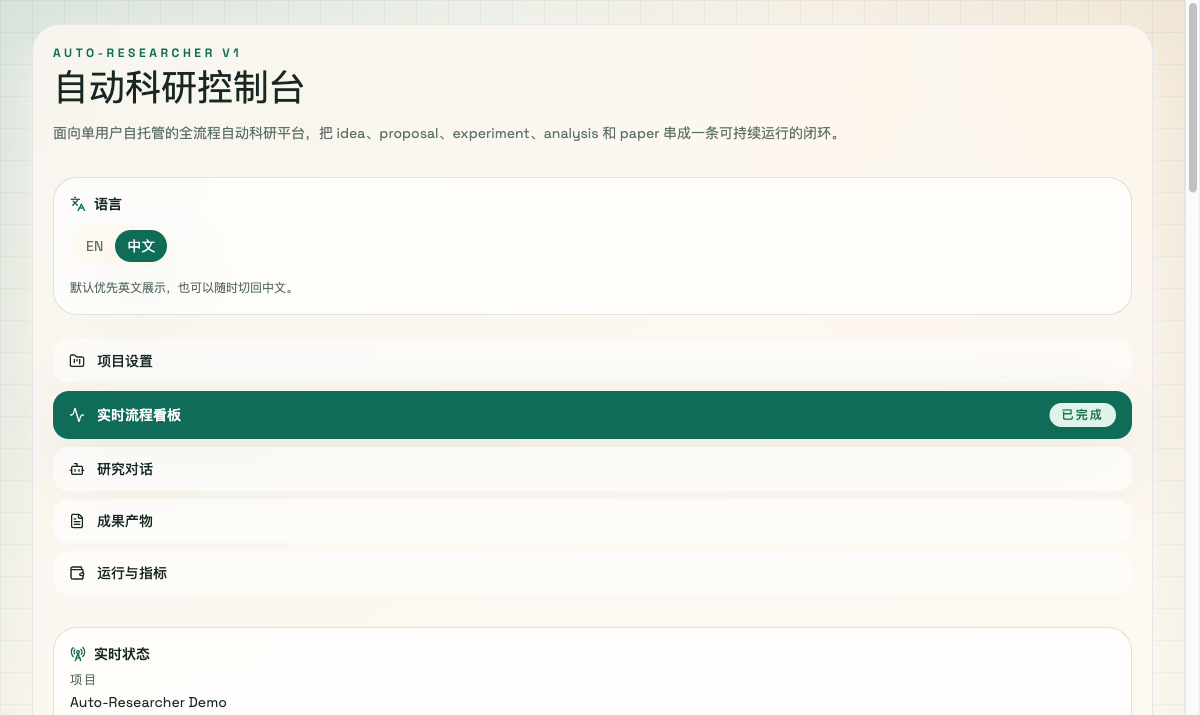
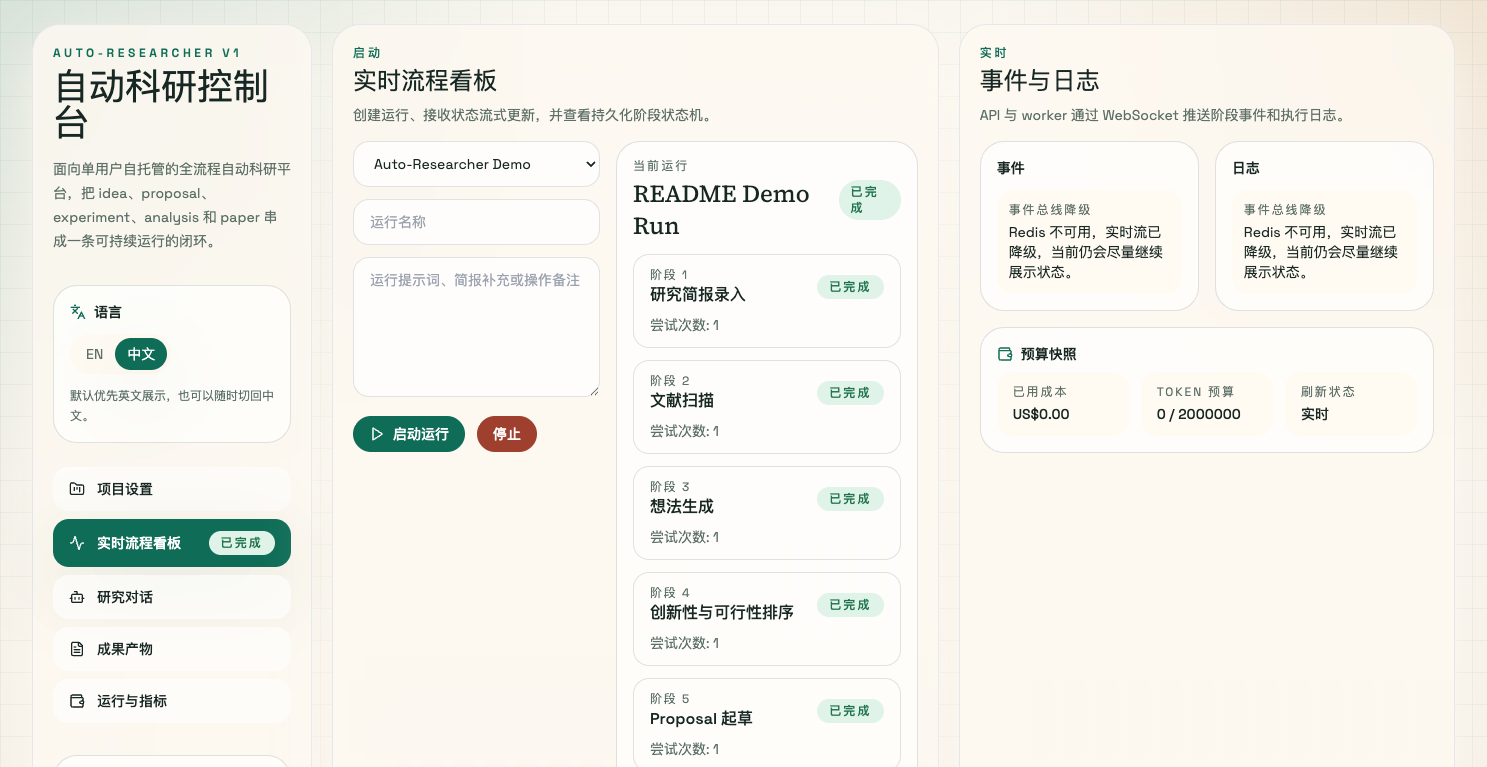
Polish showcase graphics and dashboard gallery

diff --git a/README.zh-CN.md b/README.zh-CN.md
@@ -23,7 +23,15 @@ Auto-Researcher 是一个面向单用户、自托管场景的 ML/AI 自动科研
 
 ![Auto-Researcher 英文项目设置界面](./docs/images/dashboard-setup-en.png)
 
+![Auto-Researcher 中文项目设置界面](./docs/images/dashboard-setup-zh.png)
+
 ![Auto-Researcher 中文流程看板界面](./docs/images/dashboard-pipeline-zh.png)
+
+![Auto-Researcher 中文研究对话界面](./docs/images/dashboard-chat-zh.png)
+
+![Auto-Researcher 中文成果产物界面](./docs/images/dashboard-artifacts-zh.png)
+
+![Auto-Researcher 中文运行与指标界面](./docs/images/dashboard-runs-zh.png)
 </details>
 
 ## 架构概览

diff --git a/README.md b/README.md
@@ -23,7 +23,15 @@ The GIF below is captured from a real local run of the app. It shows the English
 
 ![Auto-Researcher English setup view](./docs/images/dashboard-setup-en.png)
 
+![Auto-Researcher Chinese setup view](./docs/images/dashboard-setup-zh.png)
+
 ![Auto-Researcher Chinese pipeline view](./docs/images/dashboard-pipeline-zh.png)
+
+![Auto-Researcher Chinese research chat view](./docs/images/dashboard-chat-zh.png)
+
+![Auto-Researcher Chinese artifacts view](./docs/images/dashboard-artifacts-zh.png)
+
+![Auto-Researcher Chinese runs and metrics view](./docs/images/dashboard-runs-zh.png)
 </details>
 
 ## Architecture
